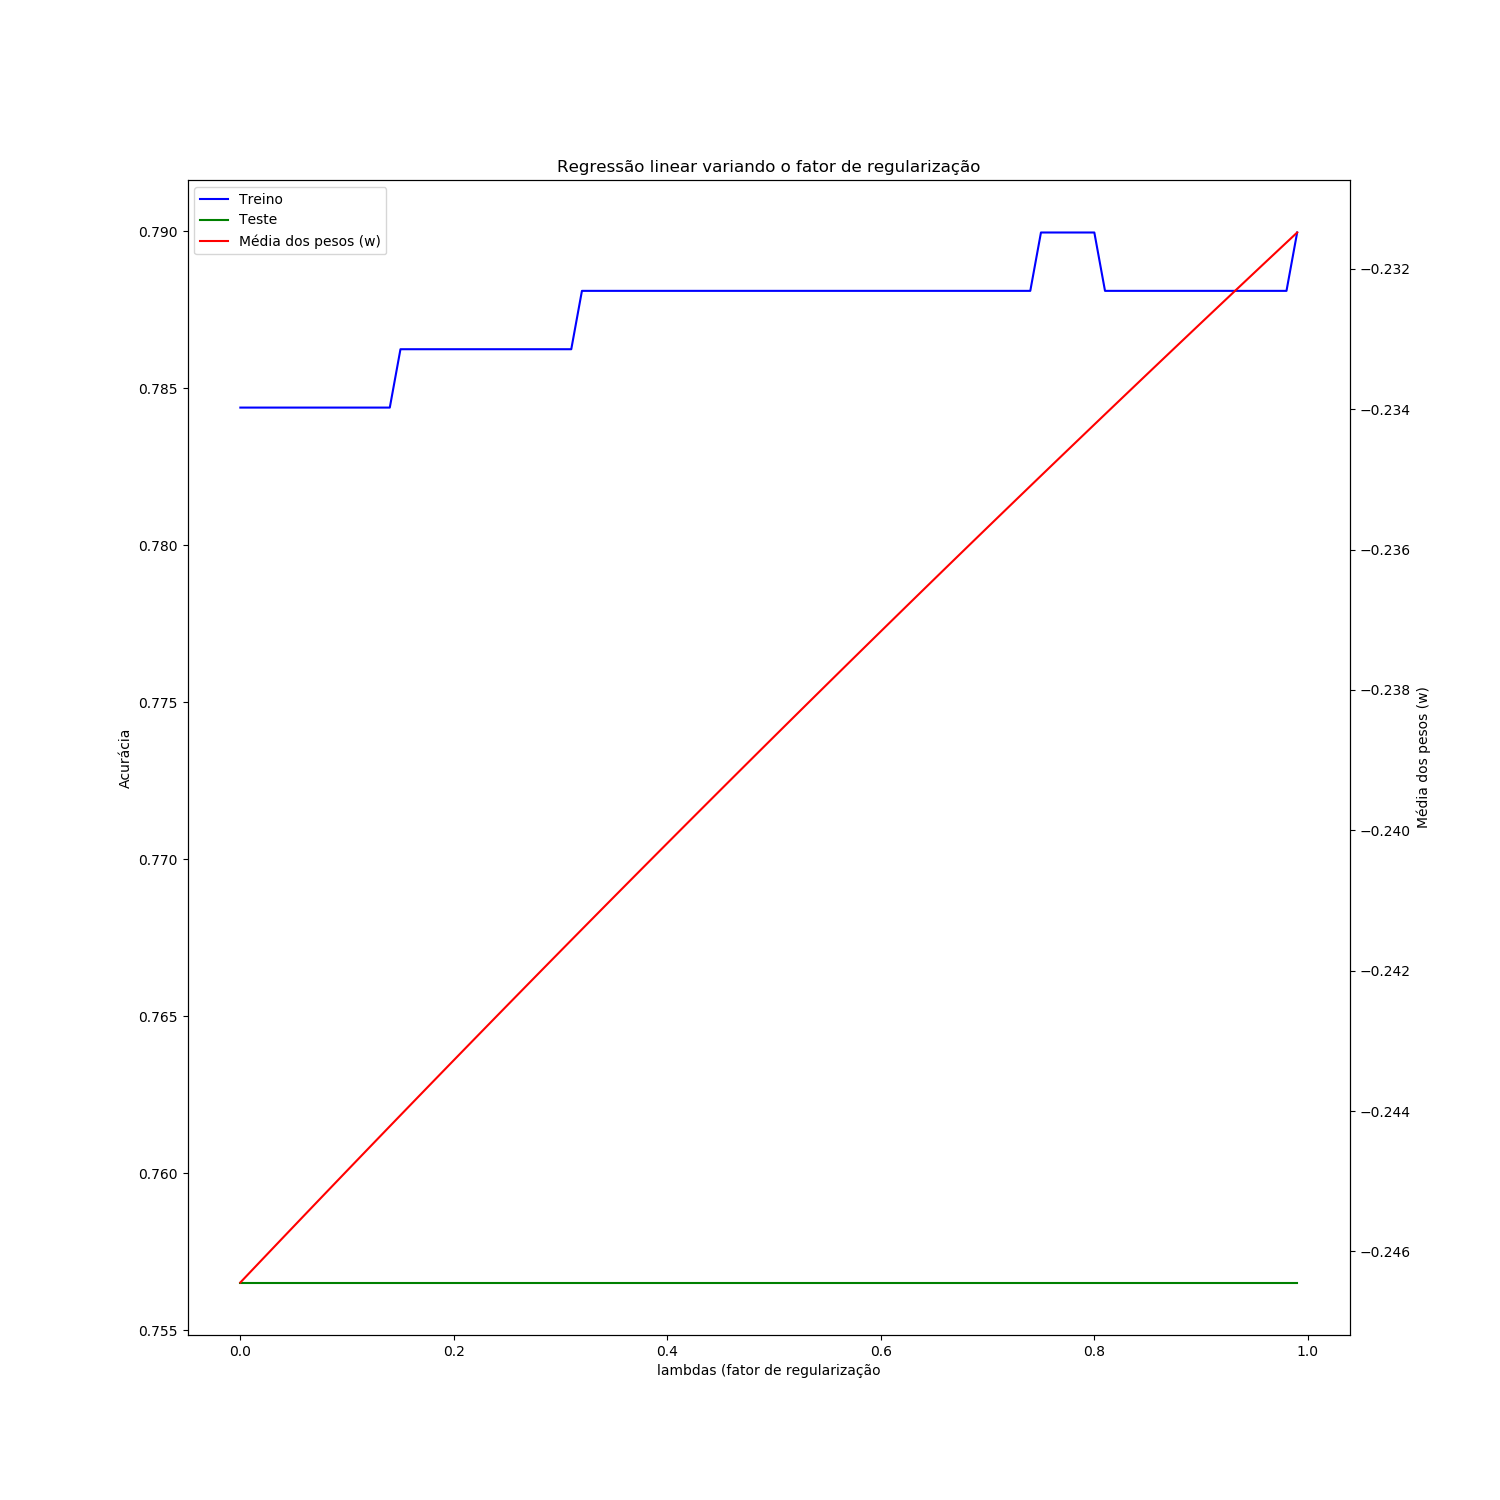
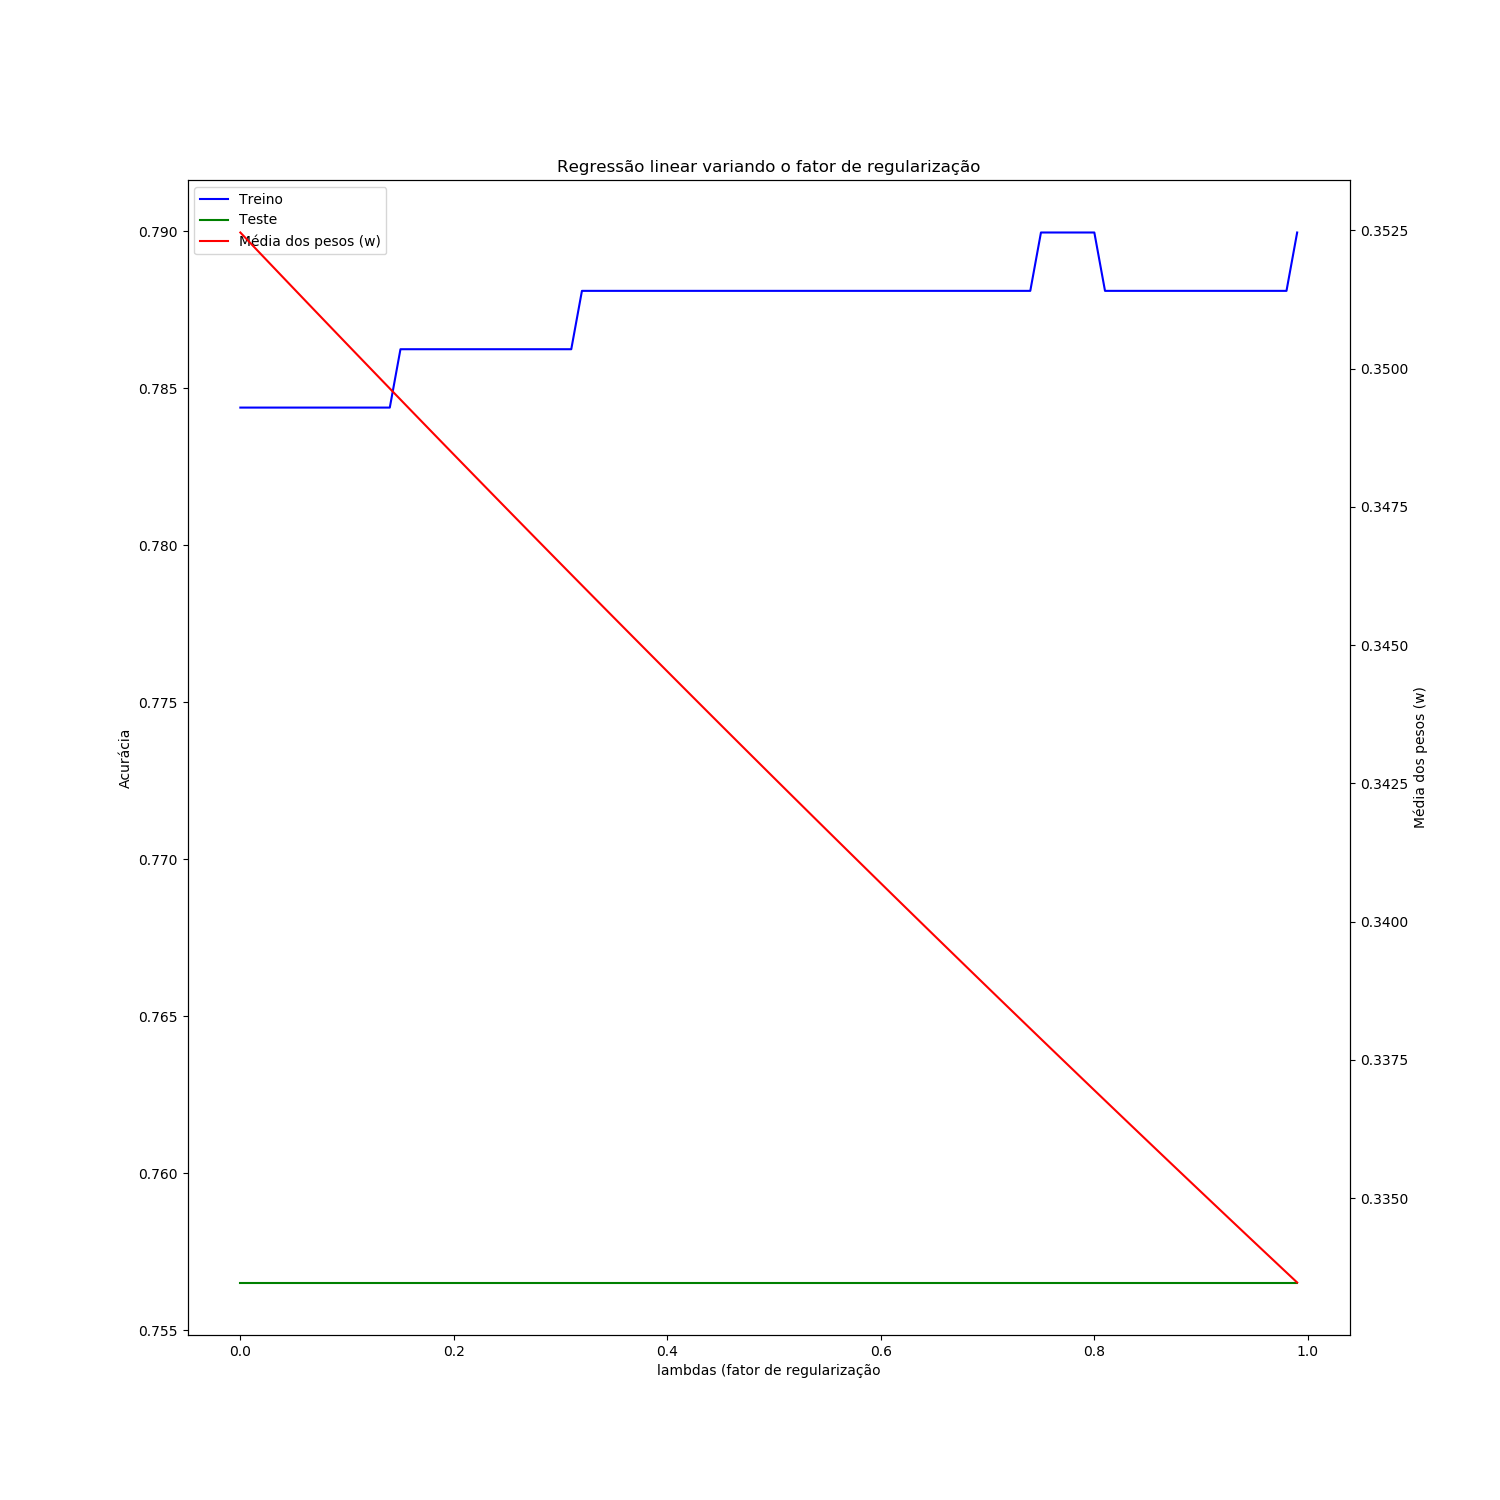
inicio fds

Changed region(s): [[0.92, 0.46, 0.9507, 0.552], [0.4907, 0.4907, 0.5213, 0.5213]]

diff --git a/utils.py b/utils.py
@@ -42,60 +42,79 @@ def divide_dataset(X, y, fator=0.7, seed=42):
 
     return (X_train, y_train, X_test, y_test)
 
-def z_score(X, cols=None):
+def z_score(X_train, X_test, cols=None):
     """ Aplica a normalização ~N(0,1) também conhecida como z_score
     
     Arguments:
-        X {Matriz} -- Matriz de atributos dos exemplos
+        X_train {Matriz} -- Matriz de atributos de treinamento
+        X_test {Matriz} -- Matriz de atributos de teste
         cols {list} -- colunas a ser aplicada a normalização
     
     Returns:
-        Matriz -- Matriz de atributos dos exemplos transformada
+        Matriz -- Matriz de atributos dos exemplos de treino transformada
+        Matriz -- Matriz de atributos dos exemplos de teste transformada
     """
-    X_ = np.copy(X)
+    X_train = np.copy(X_train)
+    X_test = np.copy(X_test)
     if cols is None:
-        cols = np.arange(1,X_.shape[1])
+        cols = np.arange(1,X_train.shape[1], dtype=int)
     for col in cols:
-        X_[:,col] = (X_[:,col] - np.mean(X_[:,col]))/np.std(X_[:,col])
-    return X_
+        mean_train = np.mean(X_train[:,col])
+        std_train = np.std(X_train[:,col])
+        # normalizando os exemplos de treinamento
+        X_train[:,col] = (X_train[:,col] - mean_train)/std_train
+        # normalizando os exemplos de teste
+        X_test[:,col] = (X_test[:,col] - mean_train)/std_train
+    return X_train, X_test
     
-def min_max(X, cols=None):
+def min_max(X_train, X_test, cols=None):
     """ Aplica a normalização min max
     
     Arguments:
-        X {Matriz} -- Matriz de atributos dos exemplos
+        X_train {Matriz} -- Matriz de atributos de treinamento
+        X_test {Matriz} -- Matriz de atributos de teste
         cols {list} -- colunas a ser aplicada a normalização
     
     Returns:
-        Matriz -- Matriz de atributos dos exemplos transformada
+        Matriz -- Matriz de atributos dos exemplos de treino transformada
+        Matriz -- Matriz de atributos dos exemplos de teste transformada
     """ 
-    X_ = np.copy(X)
+    X_train = np.copy(X_train)
+    X_test = np.copy(X_test)
     if cols is None:
-        cols = np.arange(1,X_.shape[1])
+        cols = np.arange(1,X_train.shape[1], dtype=int)
     for col in cols:
-        X_[:,col] = (X_[:,col] - np.min(X_[:,col]))/(np.max(X_[:,col]) - np.min(X_[:,col]))
-    return X_
+        min_train = np.min(X_train[:,col])
+        max_train = np.max(X_train[:,col])
+        # normalizando os exemplos de treinamento
+        X_train[:,col] = (X_train[:,col] - min_train)/(max_train - min_train)
+        # normalizando os exemplos de teste
+        X_test[:,col] = (X_test[:,col] - min_train)/(max_train - min_train)
+    return X_train, X_test
     
-def completar_com(X, func, cols=None):
+def completar_com(X_train, X_test, func, cols=None):
     """ Aplica a funcção "func" para todos os missing values
         somente da coluna específicada em "cols" ou em todas 
     
     Arguments:
-        X {ndarray} -- X
+        X_train {Matriz} -- Matriz de atributos de treinamento
+        X_test {Matriz} -- Matriz de atributos de teste
         func {function} -- função de agregação para ser aplicada nos dados faltantes
     
     Keyword Arguments:
         cols {list} -- Lista de colunas a aplicar (default: {None} - Todas)
     
     Returns:
-        np.ndarray -- X modificado
+        Matriz -- Matriz de atributos dos exemplos de treino transformada
+        Matriz -- Matriz de atributos dos exemplos de teste transformada
     """
-    X_ = np.copy(X)
+    X_train = np.copy(X_train)
+    X_test = np.copy(X_test)
     if cols is None:
-        cols = np.arange(1,X_.shape[1])
+        cols = np.arange(1,X_train.shape[1], dtype=int)
     for col in cols:
-        val = func(X_[~np.isnan(X_[:,col]), col])
-        X_[np.isnan(X_[:,col]), col] = val
-
-    return X_
+        val = func(X_train[~np.isnan(X_train[:,col]), col])
+        X_train[np.isnan(X_train[:,col]), col] = val
+        X_test[np.isnan(X_test[:,col]), col] = val
+    return X_train, X_test
 

diff --git a/atividade1-diabetes.py b/atividade1-diabetes.py
@@ -76,13 +76,6 @@ if __name__ == "__main__":
 
     input_path_train ='./data/diabetes/dataset_train.txt'
     input_path_test ='./data/diabetes/dataset_teste.txt'
-    
-    # print('5 exemplos de X:')
-    # print(X[0:5, :])
-    # print('5 exemplos de y:')
-    # print(y[0:5])
-    # print('Dimensão de X: ', np.shape(X))
-    # print('Dimensão de : ', np.shape(y))
 
     # X_train, y_train, X_test, y_test = divide_dataset(X, y)
     X_train, y_train, X_test, y_test = obter_dataset_diabetesv2(input_path_train, input_path_test)
@@ -95,26 +88,41 @@ if __name__ == "__main__":
     _ = acuracia(y_hat, y_test)
 
     # Normalizando com z_score
-    X_z_score = z_score(X_train)
-    w = regressao_linear(X_train, y_train)
-    y_hat = preditor_linear(w, X_test)
+    X_z_score_train, X_z_score_test = z_score(X_train, X_test)
+    w = regressao_linear(X_z_score_train, y_train)
+    y_hat = preditor_linear(w, X_z_score_test)
     print('Regressão linear z_score:')
     _ = acuracia(y_hat, y_test)
 
     # Normalizando com min max
-    X_min_max = min_max(X_train)
+    X_min_max_train, X_min_max_test = min_max(X_train, X_test)
     w = regressao_linear(X_train, y_train)
-    y_hat = preditor_linear(w, X_test)
+    y_hat = preditor_linear(w, X_min_max_test)
     print('Regressão linear min_max:')
     _ = acuracia(y_hat, y_test)
 
-    # Utilizando a regressao logistica
-    print("Regressão logística:")
-    w_log, erros = regressao_logistica(X_train, y_train, taxa_aprendizado=0.5, max_iteracoes=100)
-    y_hat_log = preditor_logistico(X_test, w_log)
-    _ = acuracia(y_hat_log, y_test)
-    plt.plot(erros)
+    # # Utilizando a regressao logistica
+    # print("Regressão logística:")
+    # w_log, erros = regressao_logistica(X_train, y_train, taxa_aprendizado=0.5, max_iteracoes=200)
+    # y_hat_log = preditor_logistico(X_test, w_log)
+    # _ = acuracia(y_hat_log, y_test)
+    # plt.plot(erros)
 
+
+    # Normalizando com z_score a regressão logística
+    X_z_score_train, X_z_score_test = z_score(X_train, X_test)
+    w_log, erros = regressao_logistica(X_z_score_train, y_train, taxa_aprendizado=0.5, max_iteracoes=200)
+    y_hat = preditor_logistico(w, X_z_score_test)
+    print('Regressão linear z_score:')
+    _ = acuracia(y_hat, y_test)
+
+
+    # # Utilizando a regressao logistica
+    # print("Regressão logística:")
+    # w_log, erros = regressao_logistica(X_train, y_train, taxa_aprendizado=0.5, max_iteracoes=10000)
+    # y_hat_log = preditor_logistico(X_test, w_log)
+    # _ = acuracia(y_hat_log, y_test)
+    # plt.plot(erros)
 
     # # Com regularização
     # Variando 0<=lambda<1 
@@ -125,12 +133,12 @@ if __name__ == "__main__":
                         limits_min=0, limits_max=1000, 
                         output_file_name="./imgs/diabetes_acuracia_regressor_linear10.png")
 
-    # Variando 0<=lambda<100
-    plot_regularizacao(X_train, y_train, X_test, y_test, 
-                        limits_min=0, limits_max=10000, 
-                        output_file_name="./imgs/diabetes_acuracia_regressor_linear100.png")
+    # # Variando 0<=lambda<100
+    # plot_regularizacao(X_train, y_train, X_test, y_test, 
+    #                     limits_min=0, limits_max=10000, 
+    #                     output_file_name="./imgs/diabetes_acuracia_regressor_linear100.png")
 
-    # Variando 0<=lambda<1000
-    plot_regularizacao(X_train, y_train, X_test, y_test, 
-                        limits_min=0, limits_max=100000, 
-                        output_file_name="./imgs/diabetes_acuracia_regressor_linear1000.png")
+    # # Variando 0<=lambda<1000
+    # plot_regularizacao(X_train, y_train, X_test, y_test, 
+    #                     limits_min=0, limits_max=100000, 
+    #                     output_file_name="./imgs/diabetes_acuracia_regressor_linear1000.png")

diff --git a/regressao_logistica.py b/regressao_logistica.py
@@ -32,7 +32,7 @@ def grad_erro(X, y, w):
     acc = 0
     N = len(X)
     for n in range(0,N):
-        acc += y[n]*X[n,:] / (1 + np.exp(y[n]*np.dot(w, X[n,:])))
+        acc += (y[n]*X[n,:]) / (1 + np.exp(y[n]*np.dot(w, X[n,:])))
     return -(1/N)*acc
 
 def erro(X, y, w):
@@ -67,18 +67,19 @@ def regressao_logistica(X, y, taxa_aprendizado, max_iteracoes=100, tolerancia=1e
     Returns:
         matriz -- Matriz de pesos W treinada
     """
+    X = np.concatenate((np.ones((len(X),1)), X), axis=1)
     _, d = np.shape(X)
 
     # Inicializa a matriz de pesos em W_0
     w_anterior = inicializa_w(d)
     
-    tolerancia = np.inf
     erros = []
     for _ in range(0, max_iteracoes):
-
         w = w_anterior - taxa_aprendizado*grad_erro(X, y, w_anterior)
         w_anterior = w
         erros.append(erro(X, y, w))
+        if np.linalg.norm(w_anterior) < tolerancia:
+            return w, erros
     return w, erros
 
 # TODO: colocar critério de parada na logistica
@@ -95,6 +96,7 @@ def preditor_logistico(X, w):
     Returns:
         Vetor -- y_hat - Vetor com as classes preditas
     """
+    X = np.concatenate((np.ones((len(X),1)), X), axis=1)
     y_hat = logit(np.sum(w*X, axis=1))
     y_hat[y_hat >= 0.5] = 1
     y_hat[y_hat < 0.5] = -1

diff --git a/regressao_linear.py b/regressao_linear.py
@@ -36,6 +36,7 @@ def preditor_linear(w, X):
         y_hat = np.sum(w*X, axis=1)
         return y_hat
 
+    # Caso multi-class
     _, n_classes = np.shape(w)
     y_hat = np.ones((len(X), n_classes))
     for k in range(0, n_classes):
@@ -58,7 +59,7 @@ def plot_regularizacao(X_train, y_train, X_test, y_test,
         y_hat_test = preditor_linear(w, X_test)
         y_hat_train = preditor_linear(w, X_train)
         
-        w_means.append(np.mean(w))
+        w_means.append(np.mean(np.abs(w)))
         lamdbas.append(lamdba)
         acc_test.append(acuracia(y_hat_test, y_test, show=False))
         acc_train.append(acuracia(y_hat_train, y_train, show=False))
